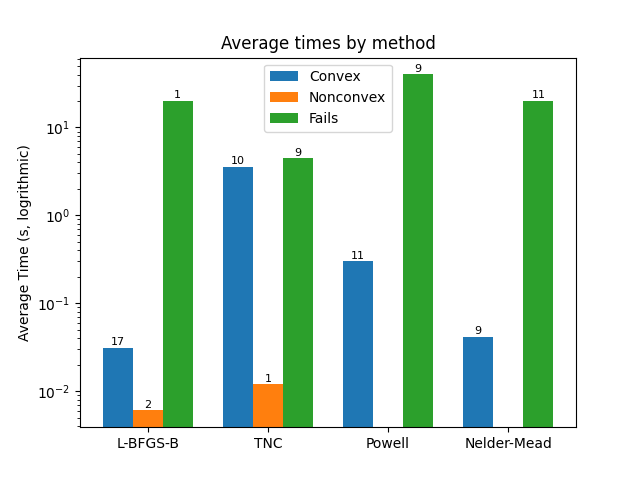
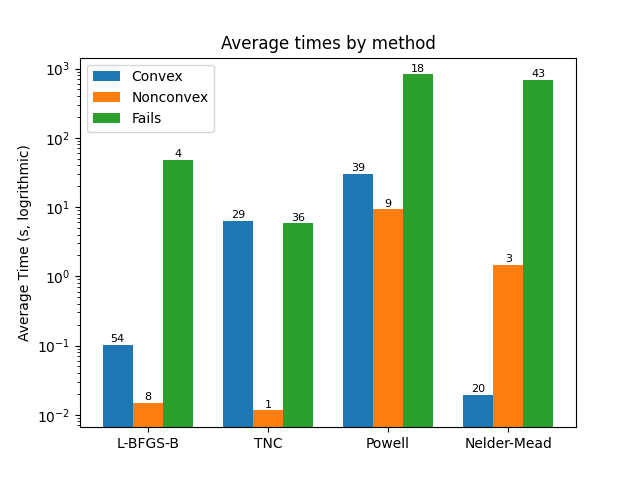
checkpoints added - need to refactor

diff --git a/src/unconstrained.py b/src/unconstrained.py
@@ -125,8 +125,8 @@ def main():
     alreadysolvedproblems = []
     with open("./checkpointfiles/unconstrained.csv") as f:
         for line in f:
-            line.split(",")
-            alreadysolvedproblems.append(line[0])
+            parts = line.strip().split(",")
+            alreadysolvedproblems.append(parts[0])
     
     
     #CG, BFGS, dogleg, trust-ncg
@@ -156,58 +156,66 @@ def main():
     
     #next huge block of code writes information to the csv
     counter = 0
-    with open("./checkpointfiles/simpleCons.csv", "a") as f:
+    with open("./checkpointfiles/unconstrained.csv", "a") as f:
         counter = 0
         for i in Clist:
-            for j in i:
-                f.write(f"{problemNames[counter]},CG,{j[0]},{j[1]},{j[2]}\n")
+            f.write(f"{problemNames[counter]},CG,{i[0]},{i[1]},{i[2]}\n")
             counter += 1
                 
         counter = 0
         for i in Blist:
-            for j in i:
-                f.write(f"{problemNames[counter]},BFGS,{j[0]},{j[1]},{j[2]}\n")
+            f.write(f"{problemNames[counter]},BFGS,{i[0]},{i[1]},{i[2]}\n")
             counter += 1
             
         counter = 0
         for i in Dlist:
-            for j in i:
-                f.write(f"{problemNames[counter]},dogleg,{j[0]},{j[1]},{j[2]}\n")
+            f.write(f"{problemNames[counter]},dogleg,{i[0]},{i[1]},{i[2]}\n")
             counter += 1 
         
         counter = 0
         for i in Tlist:
-            for j in i:
-                f.write(f"{problemNames[counter]},trust-ncg,{j[0]},{j[1]},{j[2]}")
+            f.write(f"{problemNames[counter]},trust-ncg,{i[0]},{i[1]},{i[2]}")
             counter += 1
     
     #this block gets information fom the csv
     Clist, Blist, Dlist, Tlist, temp = [], [], [], [], []
     with open("./checkpointfiles/unconstrained.csv") as f:
         for line in f:
-            line.split(",")
-            if line[1] == "L-BFGS-B":
-                temp.append(line[2])
-                temp.append(line[3])
-                temp.append(line[4])
+            line = line.strip().split(",")
+            if line[1] == "CG":
+                temp.append(int(line[2]))
+                temp.append(float(line[3]))
+                if line[4].lower() == "none":
+                    temp.append(None)
+                else:
+                    temp.append(int(line[4]))
                 Clist.append(temp)
                 temp = []
-            elif line[1] == "TNC":
-                temp.append(line[2])
-                temp.append(line[3])
-                temp.append(line[4])
+            elif line[1] == "BFGS":
+                temp.append(int(line[2]))
+                temp.append(float(line[3]))
+                if line[4].lower() == "none":
+                    temp.append(None)
+                else:
+                    temp.append(int(line[4]))
                 Blist.append(temp)
                 temp = []
-            elif line[1] == "Powell":
-                temp.append(line[2])
-                temp.append(line[3])
-                temp.append(line[4])
+            elif line[1] == "dogleg":
+                temp.append(int(line[2]))
+                temp.append(float(line[3]))
+                if line[4].lower() == "none":
+                    temp.append(None)
+                else:
+                    temp.append(int(line[4]))
                 Dlist.append(temp)
                 temp = []
             else:
-                temp.append(line[2])
-                temp.append(line[3])
-                temp.append(line[4])
+                temp.append(int(line[2]))
+                temp.append(float(line[3]))
+                if line[4].lower() == "none":
+                    temp.append(None)
+                else:
+                    temp.append(int(line[4]))
                 Tlist.append(temp)
                 temp = []
                 

diff --git a/src/simpleCon.py b/src/simpleCon.py
@@ -114,7 +114,6 @@ def graph(Llist, Tlist, Plist, Nlist):
     annotate_bars(bars3, total_fail)
 
     plt.savefig("./outputimages/simpleconstrained.png")
-    plt.show()
 
     
     
@@ -130,8 +129,8 @@ def main():
     alreadysolvedproblems = []
     with open("./checkpointfiles/simpleCons.csv") as f:
         for line in f:
-            line.split(",")
-            alreadysolvedproblems.append(line[0])
+            parts = line.strip().split(",")
+            alreadysolvedproblems.append(parts[0])
     
     
     #methods L-BFG-B, TNC, Powell, Nelder-Mead
@@ -165,55 +164,63 @@ def main():
     with open("./checkpointfiles/simpleCons.csv", "a") as f:
         counter = 0
         for i in Llist:
-            for j in i:
-                f.write(f"{problemNames[counter]},L-BFGS-B,{j[0]},{j[1]},{j[2]}\n")
+            f.write(f"{problemNames[counter]},L-BFGS-B,{i[0]},{i[1]},{i[2]}\n")
             counter += 1
                 
         counter = 0
         for i in Tlist:
-            for j in i:
-                f.write(f"{problemNames[counter]},TNC,{j[0]},{j[1]},{j[2]}\n")
+            f.write(f"{problemNames[counter]},TNC,{i[0]},{i[1]},{i[2]}\n")
             counter += 1
             
         counter = 0
         for i in Plist:
-            for j in i:
-                f.write(f"{problemNames[counter]},Powell,{j[0]},{j[1]},{j[2]}\n")
+            f.write(f"{problemNames[counter]},Powell,{i[0]},{i[1]},{i[2]}\n")
             counter += 1 
         
         counter = 0
         for i in Nlist:
-            for j in i:
-                f.write(f"{problemNames[counter]},Nelder-Mead,{j[0]},{j[1]},{j[2]}")
+            f.write(f"{problemNames[counter]},Nelder-Mead,{i[0]},{i[1]},{i[2]}\n")
             counter += 1
     
     #this block gets information fom the csv
     Llist, Tlist, Plist, Nlist, temp = [], [], [], [], []
     with open("./checkpointfiles/simpleCons.csv") as f:
         for line in f:
-            line.split(",")
+            line = line.strip().split(",")
             if line[1] == "L-BFGS-B":
-                temp.append(line[2])
-                temp.append(line[3])
-                temp.append(line[4])
+                temp.append(int(line[2]))
+                temp.append(float(line[3]))
+                if line[4].lower() == "none":
+                    temp.append(None)
+                else:
+                    temp.append(int(line[4]))
                 Llist.append(temp)
                 temp = []
             elif line[1] == "TNC":
-                temp.append(line[2])
-                temp.append(line[3])
-                temp.append(line[4])
+                temp.append(int(line[2]))
+                temp.append(float(line[3]))
+                if line[4].lower() == "none":
+                    temp.append(None)
+                else:
+                    temp.append(int(line[4]))
                 Tlist.append(temp)
                 temp = []
             elif line[1] == "Powell":
-                temp.append(line[2])
-                temp.append(line[3])
-                temp.append(line[4])
+                temp.append(int(line[2]))
+                temp.append(float(line[3]))
+                if line[4].lower() == "none":
+                    temp.append(None)
+                else:
+                    temp.append(int(line[4]))
                 Plist.append(temp)
                 temp = []
             else:
-                temp.append(line[2])
-                temp.append(line[3])
-                temp.append(line[4])
+                temp.append(int(line[2]))
+                temp.append(float(line[3]))
+                if line[4].lower() == "none":
+                    temp.append(None)
+                else:
+                    temp.append(int(line[4]))
                 Nlist.append(temp)
                 temp = []
                 

diff --git a/src/solvers.py b/src/solvers.py
@@ -133,7 +133,7 @@ class solver:
         start = time.perf_counter()
         
         def timeout(xk, state=None):
-            if time.perf_counter() - start > 20:
+            if time.perf_counter() - start > 60*20:
                 raise TimeoutError
             
         try:
